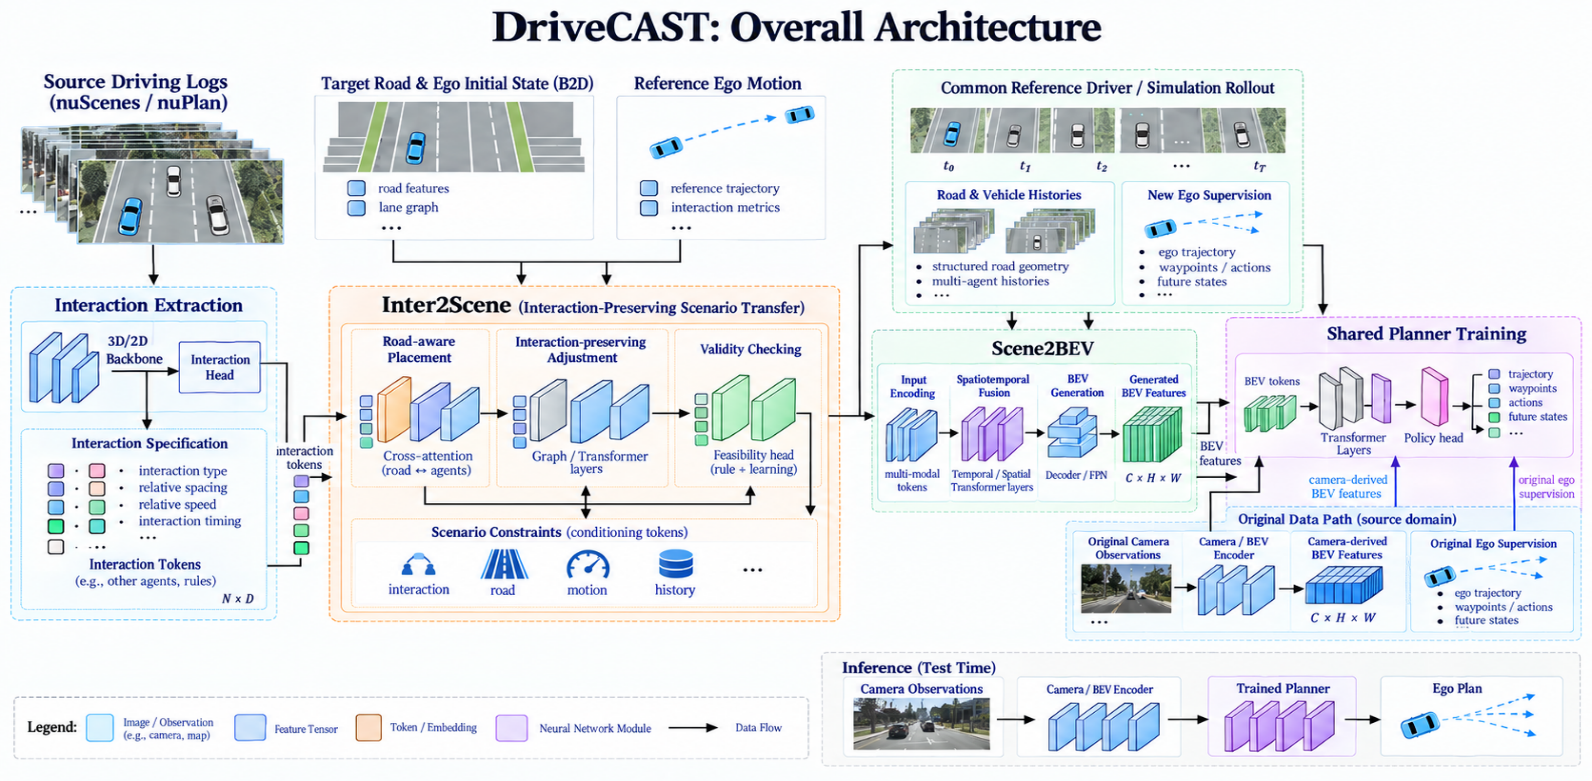
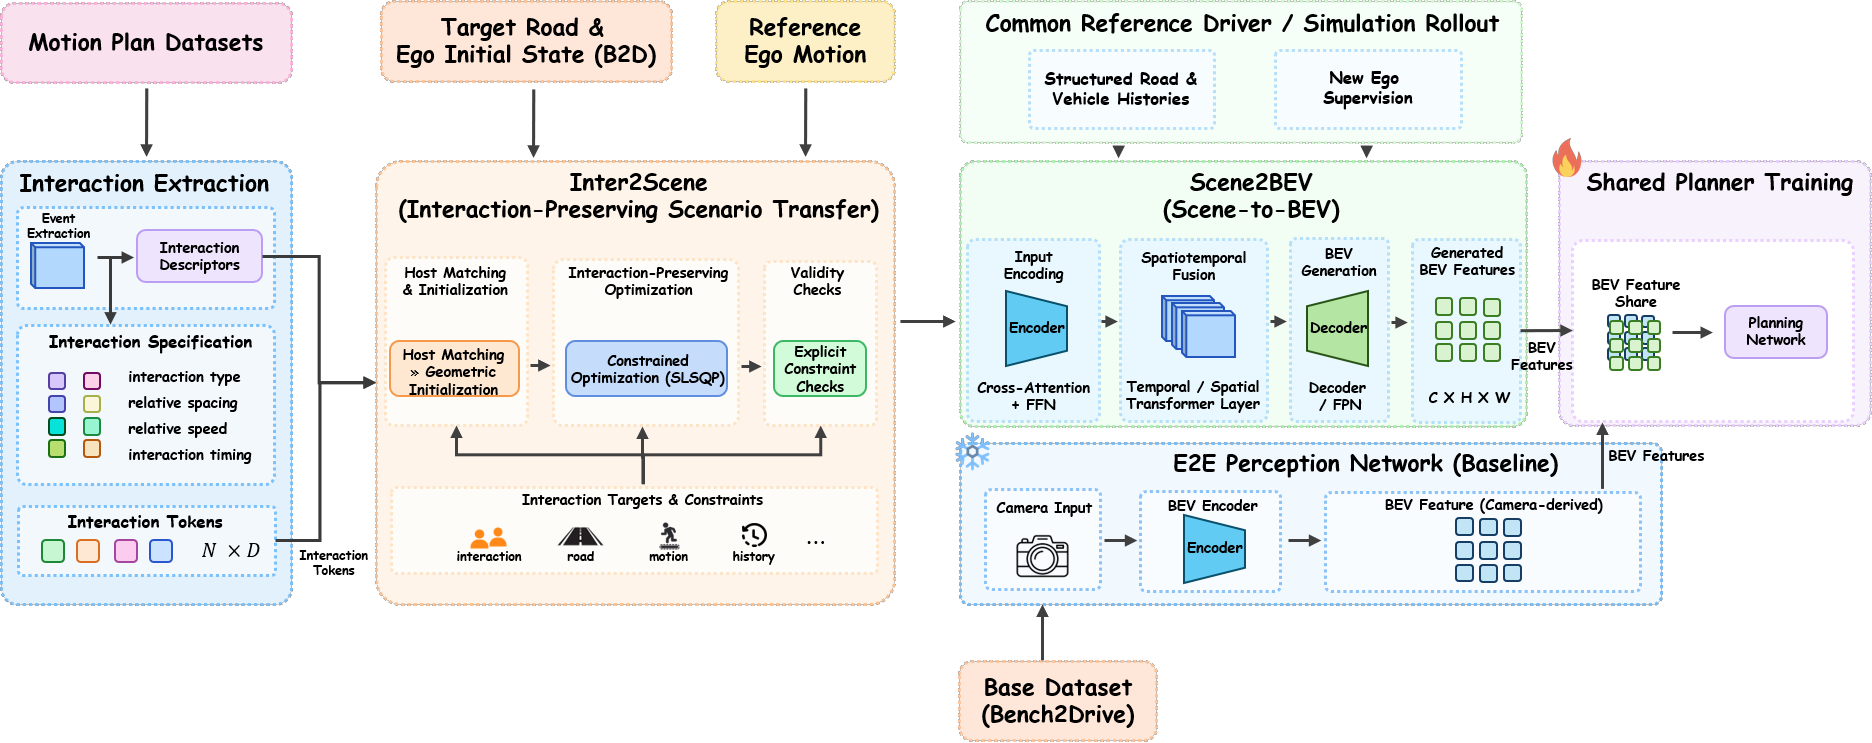
Use submitted paper architecture figure

diff --git a/index.html b/index.html
@@ -93,9 +93,9 @@
             <div class="flow-arrow" aria-hidden="true">→</div>
             <article><span>Stage 03</span><h3>Scene2BEV</h3><p>Maps structured road and vehicle histories to compatible BEV features for shared planner training.</p></article>
           </div>
-          <a class="architecture-card" href="assets/drivecast-architecture.png" target="_blank" rel="noopener" aria-label="Open the full DriveCAST architecture figure">
-            <img src="assets/drivecast-architecture.png" alt="DriveCAST architecture from source logs through Inter2Scene and Scene2BEV to shared planner training" />
-            <span><b>Overall architecture</b> · Select the figure to inspect it at full resolution <i>↗</i></span>
+          <a class="architecture-card" href="assets/drivecast-architecture.png" target="_blank" rel="noopener" aria-label="Open Figure 2 from the DriveCAST manuscript">
+            <img src="assets/drivecast-architecture.png" alt="DriveCAST pipeline from interaction extraction and Inter2Scene reconstruction through Scene2BEV to shared planner training" />
+            <span><b>Overall architecture</b> · Figure 2 from the submitted manuscript <i>↗</i></span>
           </a>
         </div>
       </section>
